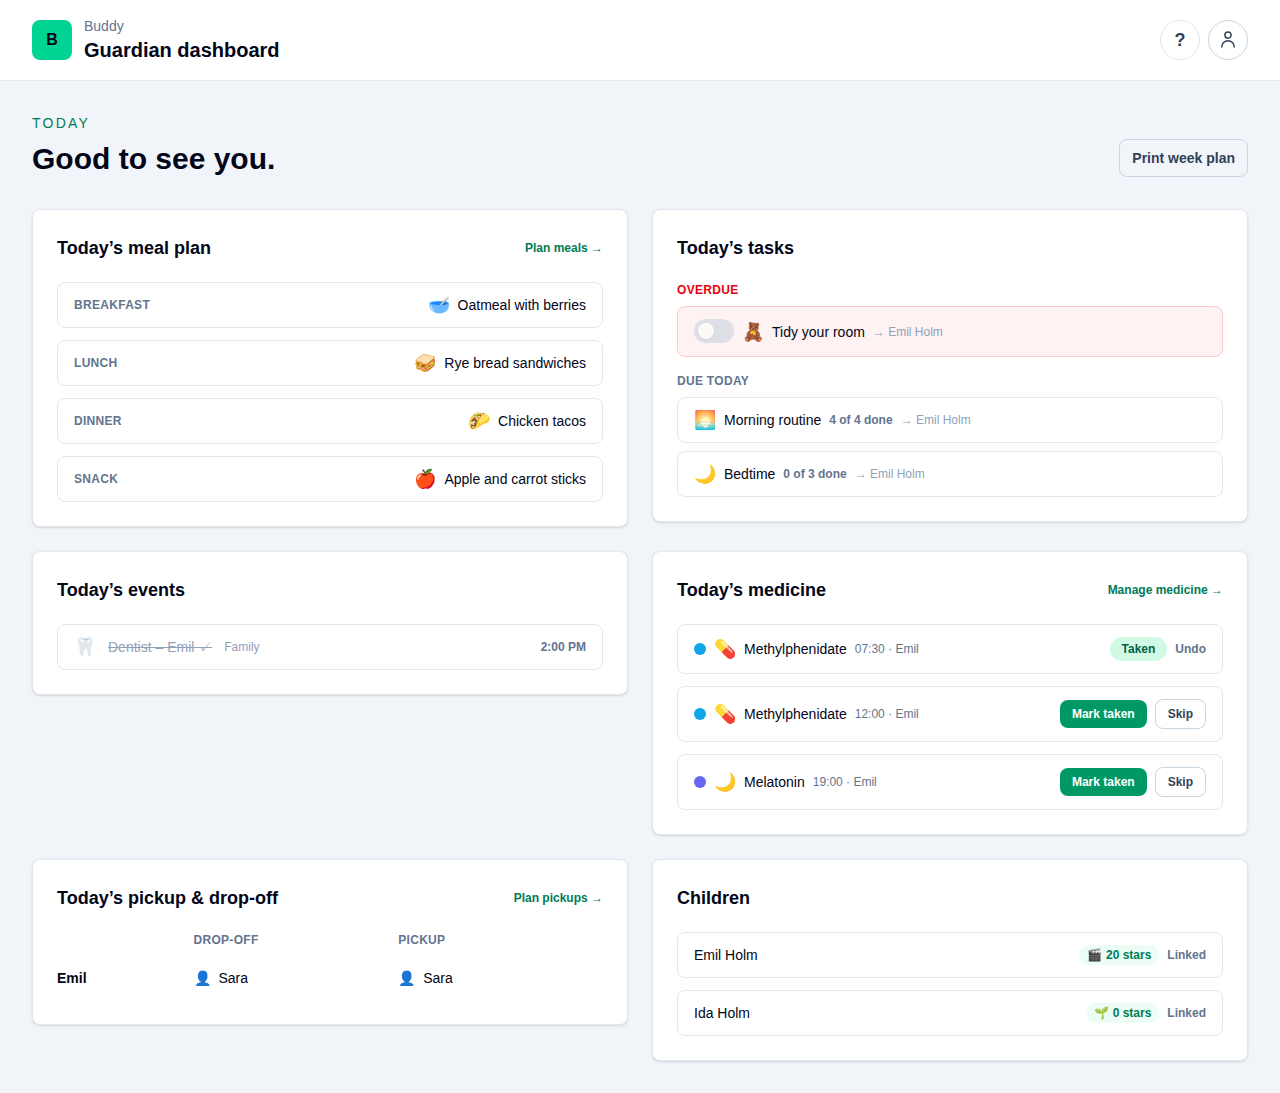
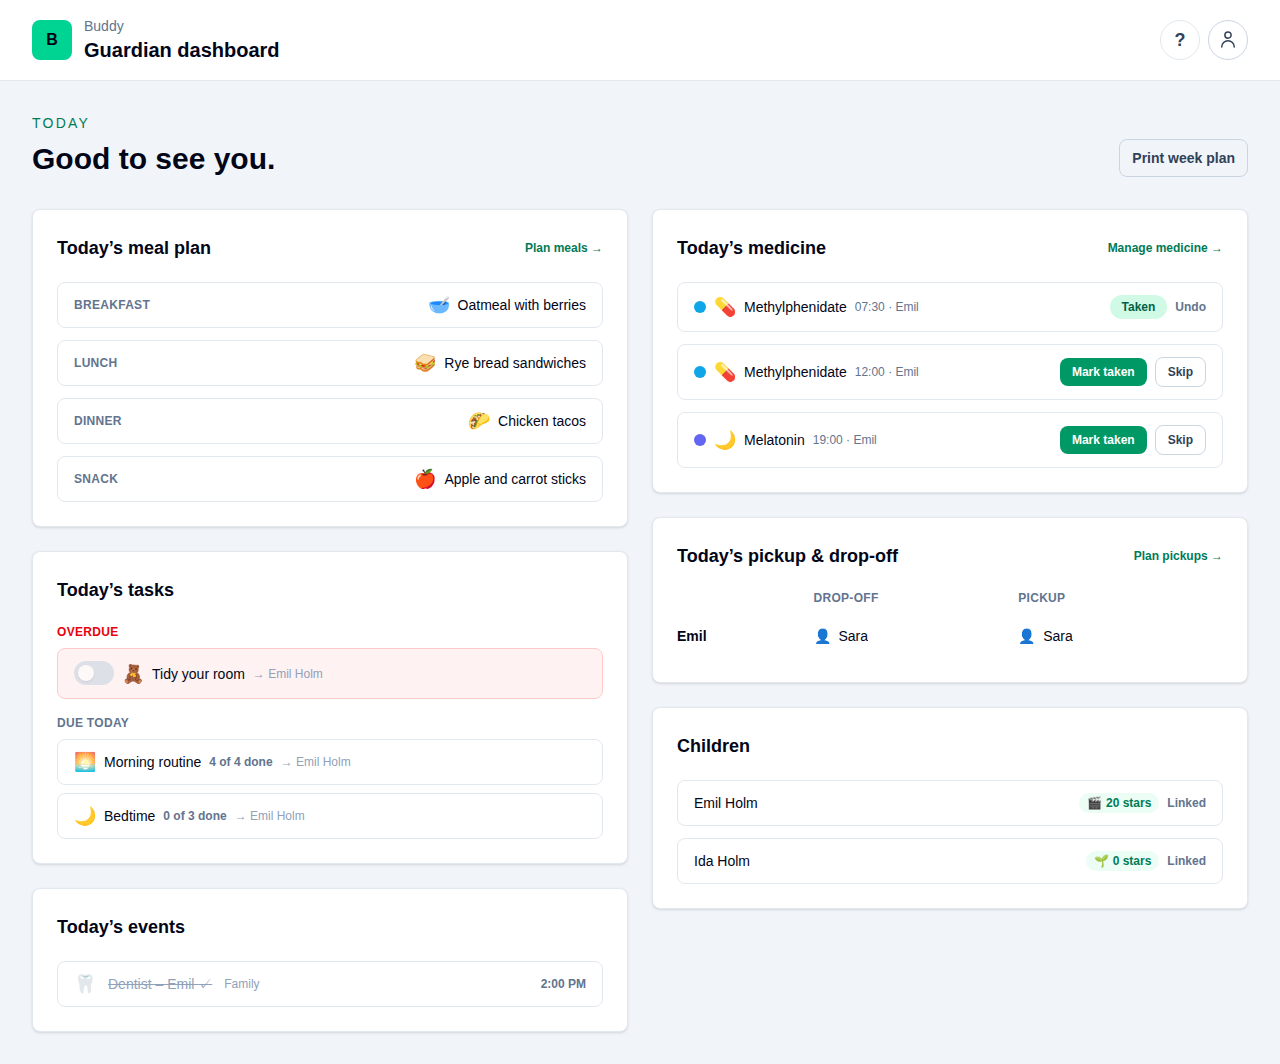
docs(responsive): record phase 6 and close out the responsive plan
Marks the plan implemented: the gap-free dashboard columns, the help
page's reading width and the print preview that fills its column, plus
why md: steps in long forms were not needed. Regenerates the affected
desktop, tablet and phone screenshots.

diff --git a/docs/frontend/analysis/responsive-layout.md b/docs/frontend/analysis/responsive-layout.md
@@ -1,9 +1,11 @@
 # Responsive layout: phone, tablet and wide desktop
 
-Status: Phases 0–5 implemented (overflow check and tablet size in the screenshot run; no page is
+Status: Implemented, phases 0–6 (overflow check and tablet size in the screenshot run; no page is
 wider than a phone any more; shared `app-page` and `app-card` with responsive padding; touch-sized
 controls, a sticky header, and menus, popovers and the delete dialog that fit a phone; the four week
-tables become day lists where they don't fit; a guardian tab bar on phones). Phase 6 is proposed.
+tables become day lists where they don't fit; a guardian tab bar on phones; a gap-free dashboard
+with three columns on wide screens, a help page capped to a reading width, and a print preview that
+fills its column).
 
 ## Context
 
@@ -182,7 +184,8 @@ custom breakpoints in `styles.css`. Don't introduce `BreakpointObserver`.**
 - **Container queries (`@container`, built into Tailwind 4) only for the dashboard widgets.** They
   sit in a one-column grid on phones and a two- or three-column grid on desktop, so their own width
   matters more than the viewport's. Everywhere else, viewport breakpoints are simpler and match
-  what the rest of the code does.
+  what the rest of the code does. _As built, none were needed:_ a dashboard column is never
+  narrower than a grid cell was before, so the widgets meet no new widths.
 - _Considered and rejected:_ `BreakpointObserver` from `@angular/cdk/layout`, because it moves
   layout into signals and specs for no gain over CSS. The one exception is a component whose DOM
   must differ (Decision 3, if a stacked view needs its own selection state), and even then
@@ -429,9 +432,24 @@ Implemented:
 
 ### Phase 6 -- tablet and wide desktop
 
-- Add `md:` steps in long forms (agenda create form, sleep entry form, admin).
-- Dashboard: `@container` widgets, and `xl:grid-cols-3` on a wider cap (`max-w-[96rem]`) for
-  the dashboard only. Reading text keeps `max-w-prose`.
+Implemented, after checking the tablet and desktop screenshots for what actually needed it:
+
+- Dashboard: the cards pack into CSS columns (`lg:columns-2 2xl:columns-3`, each card
+  `break-inside-avoid` with `mb-6`) instead of a grid whose rows were as tall as their tallest
+  card, so short cards no longer leave holes. DOM order, and with it keyboard and screen-reader
+  order, is unchanged; visually the cards now run down one column, then the next. The resume-setup
+  banner sits above the columns. The dashboard keeps the standard `max-w-7xl`: a wider cap was
+  tried and dropped, because the shell header stays at `max-w-7xl` and the page no longer lined up
+  with it at 1920px.
+- Help page: topic text and the intro are capped at `max-w-prose`; the nav, the article cards and
+  the inline help panel are unchanged.
+- Print template editor: the live preview measures its column with a `ResizeObserver` and scales
+  the sheet to it, up to 900px (an A4 sheet at about 85% of print size), instead of a fixed 384px.
+  It falls back to 384px before the first measurement. The preview box is `overflow-hidden` again.
+- Not done: `md:` steps in long forms. The tablet screenshots show the agenda, sleep-entry and
+  admin forms already laying out in two to four columns from `sm`.
+- The documentation screenshots stop at 1280px, so the three-column dashboard and the help reading
+  width were checked with a one-off 1920px capture rather than a fourth screenshot size.
 
 ## Explicitly out of scope
 
@@ -443,16 +461,17 @@ Implemented:
 
 ## Decisions made
 
-| Question                | Decision                                                                                                                           |
-| ----------------------- | ---------------------------------------------------------------------------------------------------------------------------------- |
-| Mechanism               | Tailwind default breakpoints, mobile-first; `md:` for tablet; `@container` only for dashboard widgets; no `BreakpointObserver`     |
-| Repeated wrappers       | Shared `app-page` and `app-card` with responsive padding                                                                           |
-| Week tables on phones   | Day list beside the existing table, switching where each table fits (`sm`/`md`/`lg`/`xl`); tables stay for wider screens and print |
-| Meal-plan drag on touch | Not offered below `xl`; the meal picker covers it                                                                                  |
-| Touch targets           | At least 44px on `pointer-coarse:` for guardian pages; at least 44px always on child pages                                         |
-| Regression guard        | Overflow assertion in the screenshot run, plus a tablet project                                                                    |
-| Phase 0 rollout         | Landed first with a temporary `knownOverflow` list, removed again in Phase 1                                                       |
-| Phone navigation        | Profile menu fitted to a phone, sticky header, and a four-tab bar (Today, Calendar, Meals, Medicine) with no More tab              |
+| Question                | Decision                                                                                                                                                 |
+| ----------------------- | -------------------------------------------------------------------------------------------------------------------------------------------------------- |
+| Mechanism               | Tailwind default breakpoints, mobile-first; `md:` for tablet; `@container` only for dashboard widgets; no `BreakpointObserver`                           |
+| Repeated wrappers       | Shared `app-page` and `app-card` with responsive padding                                                                                                 |
+| Week tables on phones   | Day list beside the existing table, switching where each table fits (`sm`/`md`/`lg`/`xl`); tables stay for wider screens and print                       |
+| Meal-plan drag on touch | Not offered below `xl`; the meal picker covers it                                                                                                        |
+| Touch targets           | At least 44px on `pointer-coarse:` for guardian pages; at least 44px always on child pages                                                               |
+| Regression guard        | Overflow assertion in the screenshot run, plus a tablet project                                                                                          |
+| Phase 0 rollout         | Landed first with a temporary `knownOverflow` list, removed again in Phase 1                                                                             |
+| Phone navigation        | Profile menu fitted to a phone, sticky header, and a four-tab bar (Today, Calendar, Meals, Medicine) with no More tab                                    |
+| Wide desktop            | Dashboard in CSS columns, three from `2xl` within `max-w-7xl` so it lines up with the header; help text at `max-w-prose`; print preview fills its column |
 
 ## Remaining open questions
 
@@ -462,8 +481,6 @@ Implemented:
 - **Danish tab labels.** "Hovedmenu" (the nav's accessible name; "Hovednavigation" is the
   alternative) and "Mad" for the Meals tab ("Madplan" and "Måltider" were longer) want a native
   speaker's check.
-- **Does the wide-desktop dashboard need three columns at all?** Lean: yes, but only the
-  dashboard. Every other page keeps `max-w-7xl`.
 - **Does the tablet screenshot replace or add to the mobile one?** Lean: add, so there are three
   images per page in the docs.
 

diff --git a/docs/frontend/README.md b/docs/frontend/README.md
@@ -269,6 +269,10 @@ with Today, Calendar, Meals and Medicine (the last two follow their feature flag
 from `sm` up, when printing and on onboarding (`data: { hideTabBar: true }`); the account menu in
 the sticky header keeps every link on all sizes.
 
+On wide screens the dashboard packs its cards into CSS columns (two from `lg`, three from `2xl`)
+so short cards leave no holes; nothing is wider than `max-w-7xl`, so pages line up with the shell
+header. The help page caps its running text at `max-w-prose`.
+
 Child pages share **`app-child-page`**
 ([`features/child/child-page`](../../src/frontend/buddy/src/app/features/child/child-page/child-page.ts)):
 the warm background, a header with the page title (a back link to `/child`, or the logo on the
@@ -318,9 +322,10 @@ full calendar timeline. Theme selection (light/dark/system) is persisted per bro
   setup guide for guardians with no groups or children, with resumable progress
 - [Visual specification](analysis/visual-specification.md) — proposed data-type-to-component
   map and guardian/child visual language, applied to the Sleep Diary as a worked example
-- [Responsive layout](analysis/responsive-layout.md) — consequences and a phased plan for phone,
-  tablet and wide-desktop layouts; phases 0–1 implemented (no page is wider than a phone, and the
-  screenshot run now fails if one is, on desktop, tablet and phone)
+- [Responsive layout](analysis/responsive-layout.md) — implemented phone, tablet and wide-desktop
+  layouts: no page wider than a phone (checked by the screenshot run on all three sizes), shared
+  page and card components, touch targets, day lists for the week tables, a phone tab bar, and a
+  gap-free dashboard
 - [Installing Buddy on a kid's iPad](analysis/ipad-installation.md) — PWA vs. native install
   options, push notification support, and pricing
 - [A single-day dashboard for the child home screen](analysis/child-day-dashboard.md) — layout
